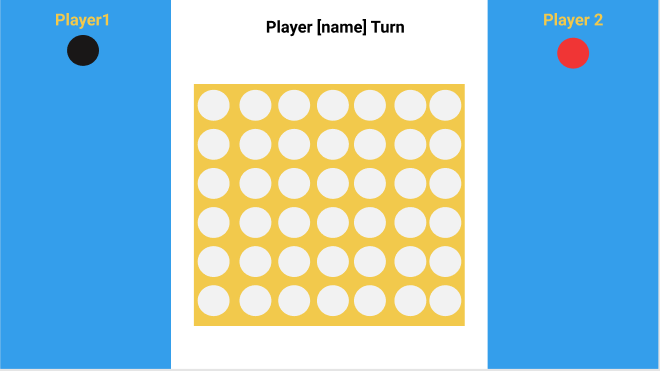
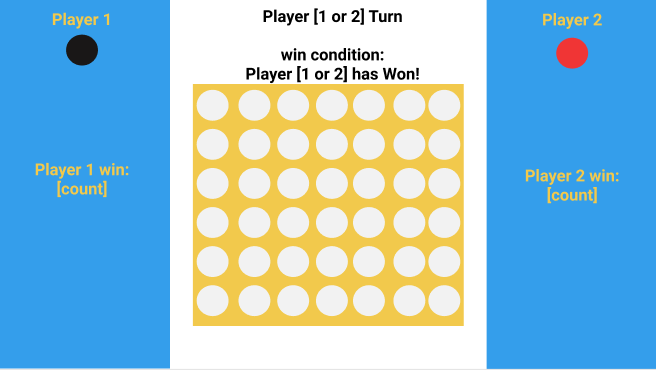
updated wireframe to include scoreboard and win condition popup for player who won

diff --git a/README.md b/README.md
@@ -21,3 +21,9 @@ Basic wireframe for the game's UI:
 * HTML, CSS, JavaScript
 
 ## Future Version 2 Features
+* Alternate the first player to move: Player 1 moves first in game 1, Player 2 moves first in game 2, etc.
+* Allow players to enter their name and display their name instead of "Player 1" and "Player 2".
+* Provide a way to play against the computer (using a simple A.I. algorithm)
+* Keep score
+* Make it responsive
+* Add avatar choices for the player
